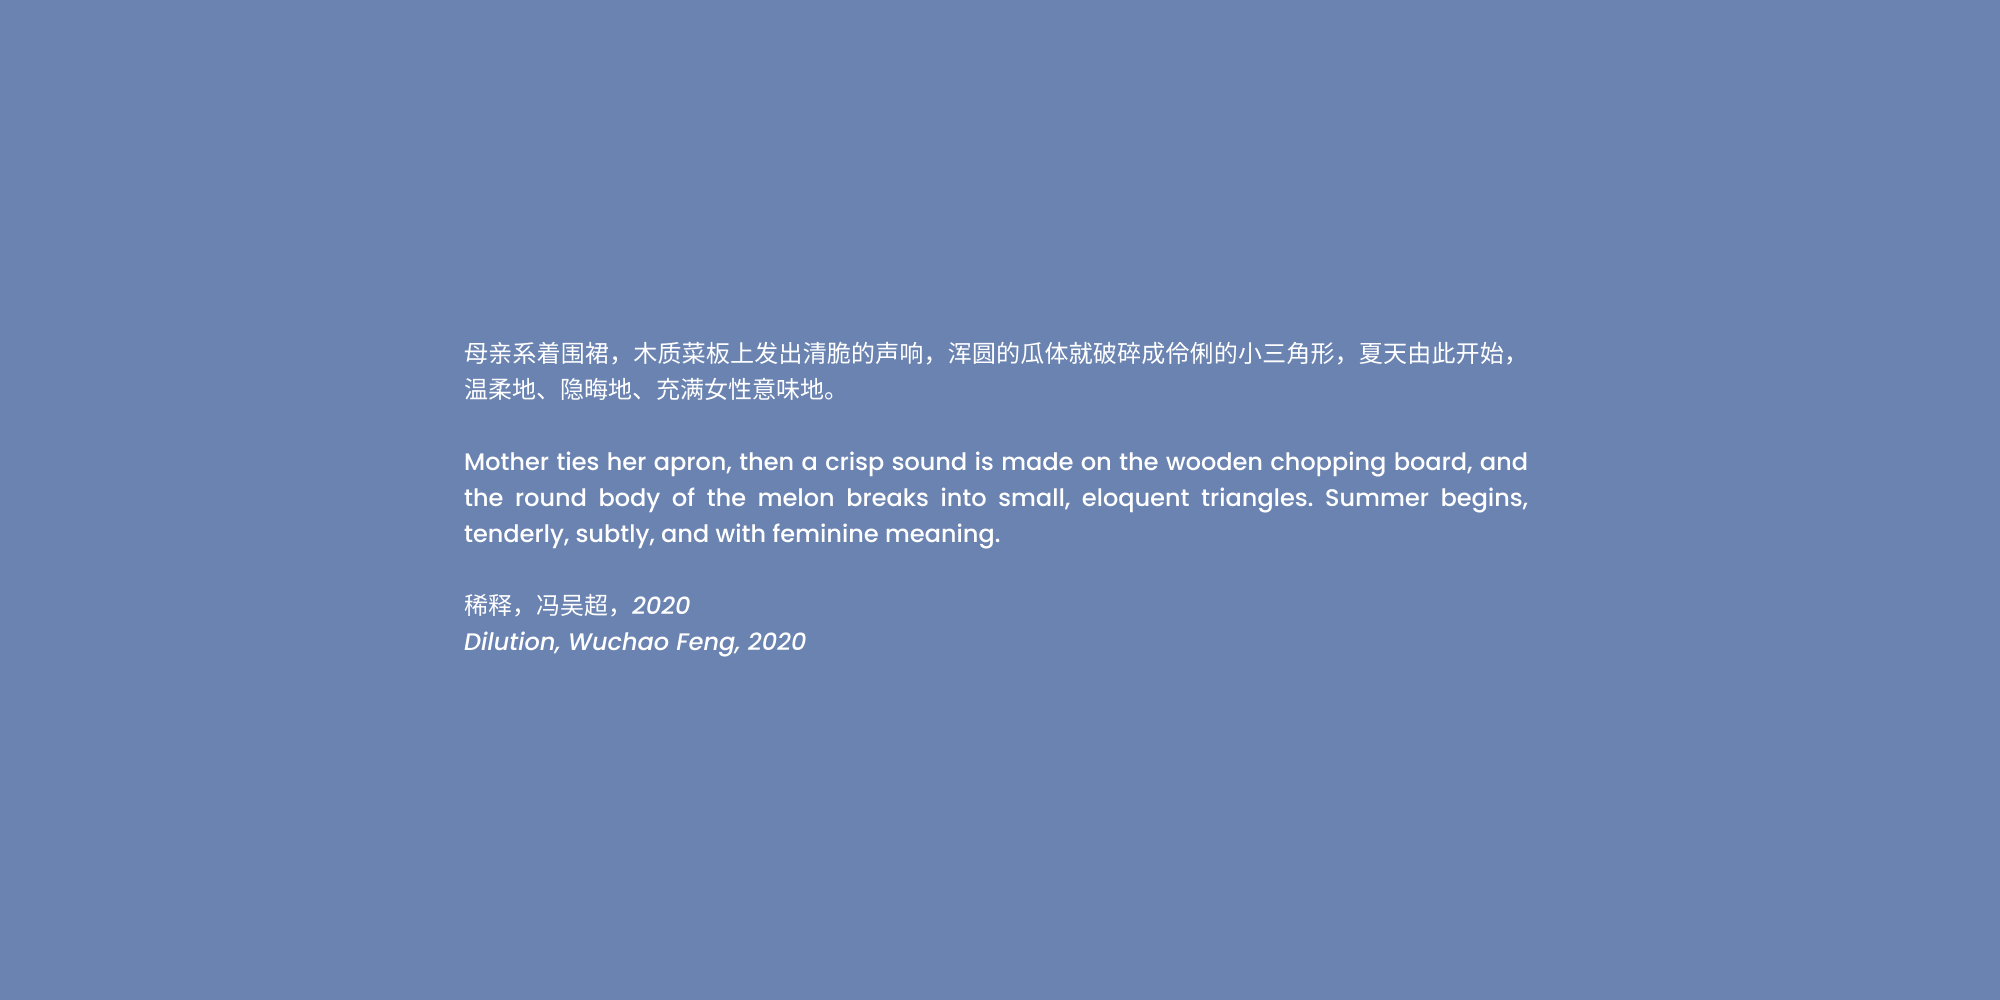
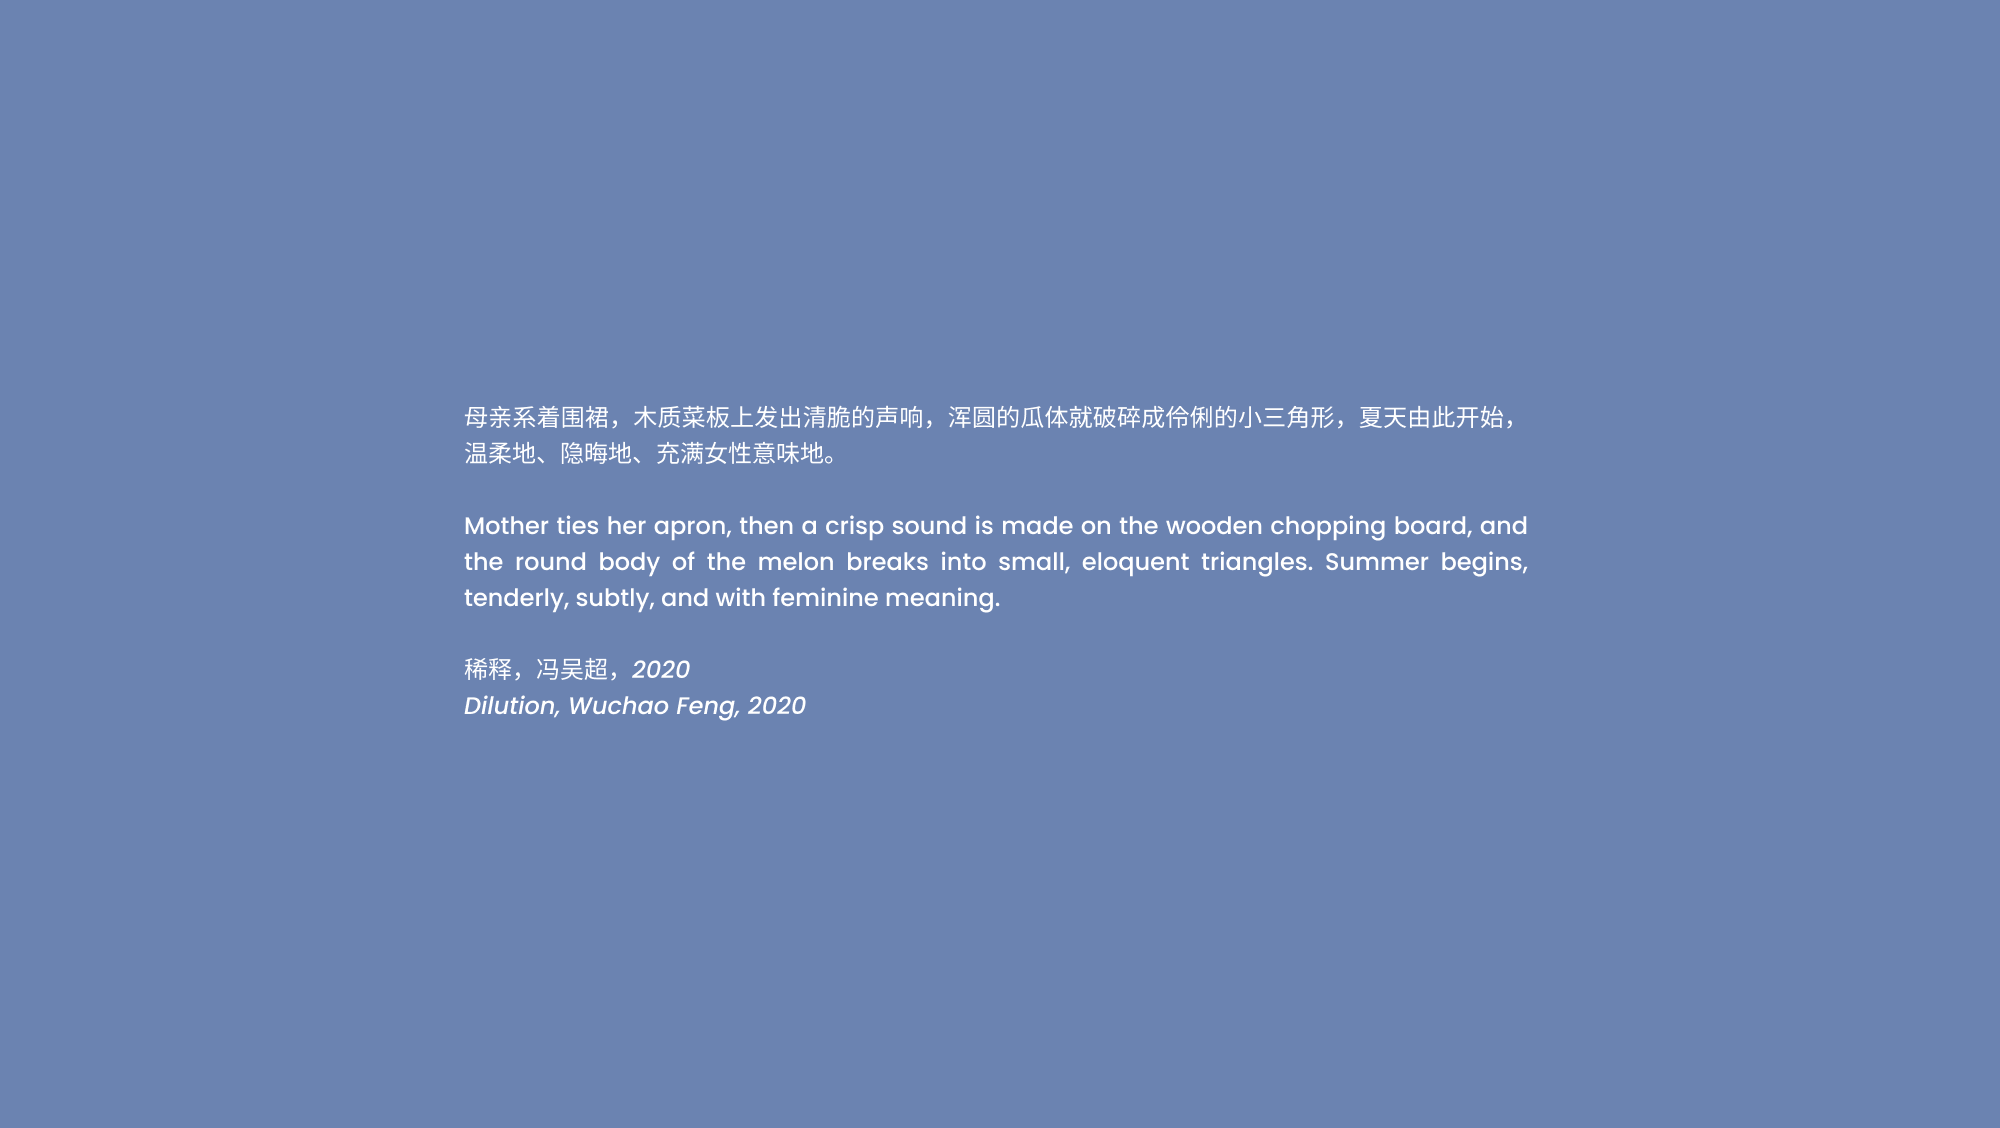
23345

Changed region(s): [[0.217, 0.341, 0.775, 0.496], [0.217, 0.589, 0.403, 0.651], [0.217, 0.527, 0.496, 0.558]]

diff --git a/page1.html b/page1.html
@@ -47,7 +47,7 @@
       height: 500px;
       width: 1000px;
       left: 228px;
-      top: -60px;
+      top: 58px;
       opacity: 0;
       transition: .5s ease;
     }
